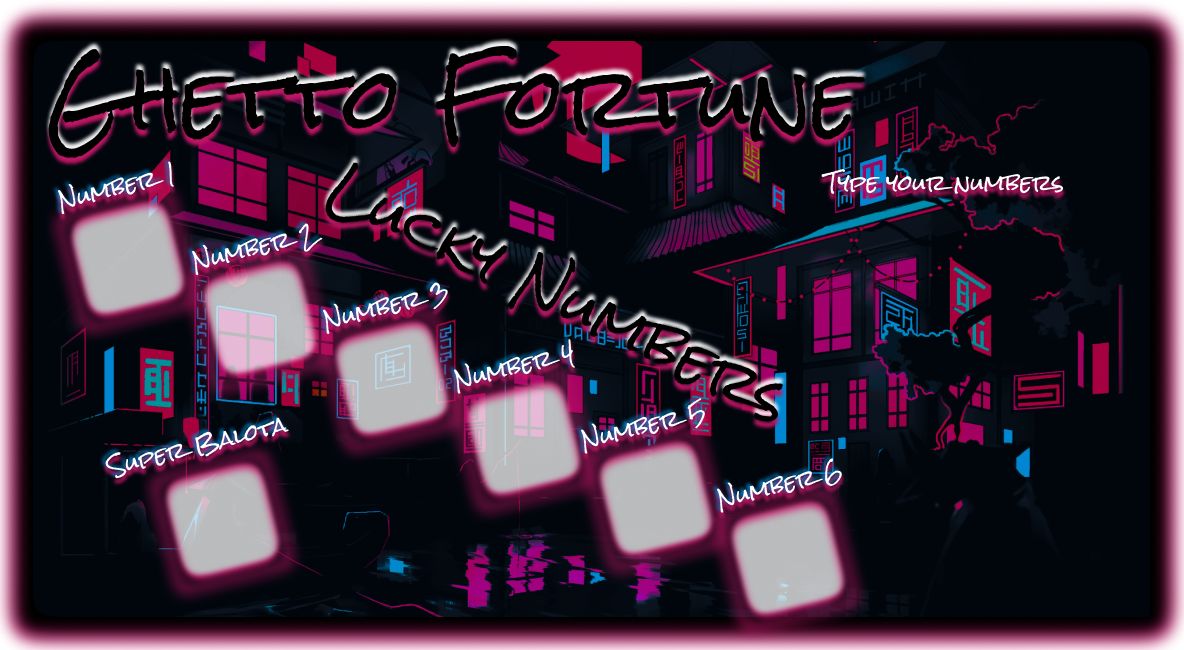
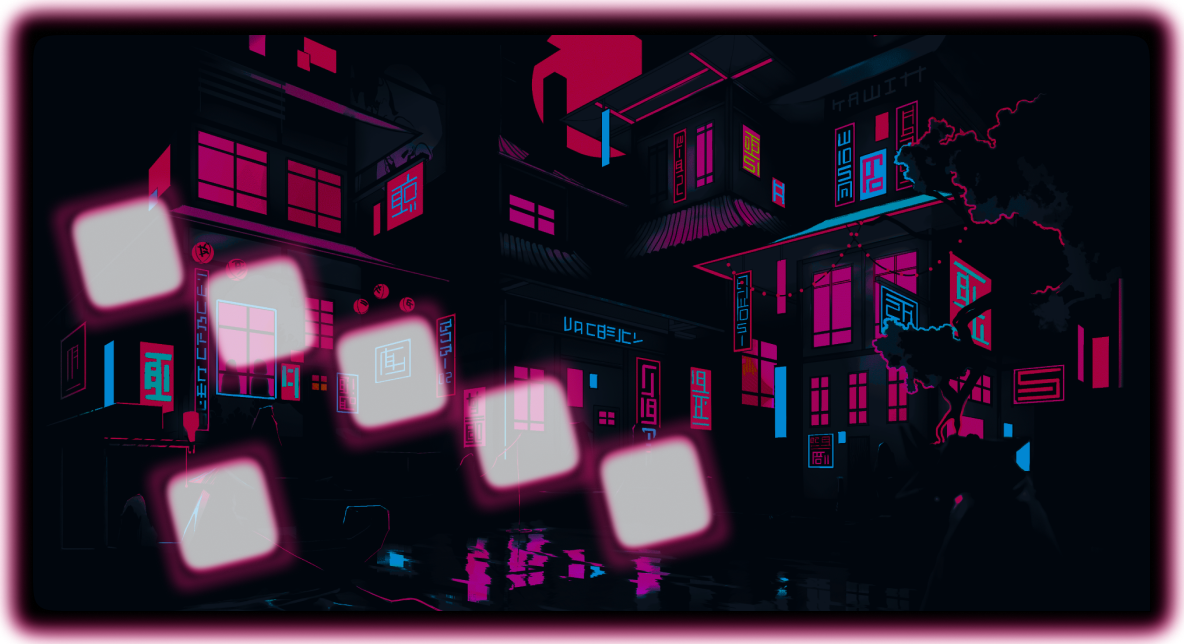
Challenge Baloto

diff --git a/08-javascript/22-challenge-baloto.html b/08-javascript/22-challenge-baloto.html
@@ -1,0 +1,360 @@
+<!DOCTYPE html>
+<html lang="en">
+<head>
+    <meta charset="UTF-8">
+    <meta http-equiv="X-UA-Compatible" content="IE=edge">
+    <meta name="viewport" content="width=device-width, initial-scale=1.0">
+    <title>Challenge Baloto</title>
+    <link rel="stylesheet" href="css/styles.css">
+    <link rel="preconnect" href="https://fonts.googleapis.com">
+    <link rel="preconnect" href="https://fonts.gstatic.com" crossorigin>
+    <link href="https://fonts.googleapis.com/css2?family=Rock+Salt&display=swap" rel="stylesheet">
+    <link rel="stylesheet" href="https://cdnjs.cloudflare.com/ajax/libs/animate.css/4.1.1/animate.min.css"
+  />
+    <style>
+        /* Modificaciones generales */        
+        input[type=number]::-webkit-inner-spin-button,
+        input[type=number]::-webkit-outer-spin-button {
+            -webkit-appearance: none;
+            margin: 0;
+        }
+        input[type=number]:focus{
+            outline:none;
+        }
+        input[type=number] { -moz-appearance:textfield; font-family: 'Rock Salt', cursive;  }
+        
+        .animate__zoomInDown{
+            animation: zoomInDown;
+            animation-duration: 0.8s;
+        }
+
+        .display {
+            display: none;
+        }
+
+        /* Base */
+        section.base {
+            *background: url(/08-javascript/imgs/Baloto/base-try.png) no-repeat center;
+            background: url(/08-javascript/imgs/Baloto/base.png) no-repeat center;
+            height: 650px;
+            font-family: 'Rock Salt', cursive;
+            margin: 0px auto;
+            padding: 0;
+            position: relative;
+            width: 1184px;
+        }
+        /* Textos */
+        section.base p.ghetto {
+            color: #000000;
+            cursor: context-menu;
+            font-style: normal;
+            font-weight: normal;
+            font-size: 82px;
+            height: 171px;
+            left: 46px;
+            line-height: 196px;
+            position: absolute;
+            top: -80px;
+            text-shadow: 0px -5px 4px rgba(255, 255, 255, 0.95), 0px 6px 4px #BD1564;
+            width: 813px;
+        }
+        section.base p.lucky {
+            color: #000000;
+            cursor: context-menu;
+            font-style: normal;
+            font-weight: normal;
+            font-size: 55px;
+            height: 131px;
+            left: 306px;
+            line-height: 131px;
+            position: absolute;
+            top: 175px;
+            text-shadow: 0px -5px 4px rgba(255, 255, 255, 0.95), 0px 6px 4px #BD1564;
+            transform: rotate(26deg);
+            width: 505px;
+        }
+        section.base p.type {
+            color: #FFFFFF;
+            cursor: context-menu;
+            font-family: Rock Salt;
+            font-style: normal;
+            font-weight: normal;
+            font-size: 21px;
+            height: 50px;
+            left: 845px;
+            line-height: 50px;
+            position: absolute;
+            top: 137px;
+            text-shadow: 0px 5px 4px #BD1564, 0px 4px 4px #BF1363;
+            width: 248px;
+        }
+        section.base p.luckyNumber1,
+        section.base p.luckyNumber2,
+        section.base p.luckyNumber3,
+        section.base p.luckyNumber4,
+        section.base p.luckyNumber5,
+        section.base p.luckyBalota {
+            color: #FFFFFF;
+            cursor: context-menu;
+            font-style: normal;
+            font-weight: normal;
+            font-size: 21px;
+            height: 50px;
+            line-height: 50px;
+            position: absolute;
+            text-shadow: -3px -2px 4px #0187D2, 0px 5px 4px #BD1564, 0px 4px 4px #BF1363;
+            transform: rotate(-14deg);
+            width: 126px;
+        }
+        section.base p.luckyNumber1 {
+            top: 140px;
+            left: 56px;
+        }
+        section.base p.luckyNumber2 {
+            top: 201px;
+            left: 191px;
+        }
+        section.base p.luckyNumber3 {
+            top: 260px;
+            left: 321px;
+            width: 130px;
+        }
+        section.base p.luckyNumber4 {
+            top: 320px;
+            left: 453px;
+        }
+        section.base p.luckyNumber5 {
+            top: 380px;
+            left: 579px;
+            width: 129px;
+        }
+        section.base p.luckyBalota {
+            top: 399px;
+            left: 106px;
+            width: 184px;
+        }
+
+        /* Inputs de los números a digitar */
+        section.base input.typingNumber1,
+        section.base input.typingNumber2,
+        section.base input.typingNumber3,
+        section.base input.typingNumber4,
+        section.base input.typingNumber5,
+        section.base input.typingBalota {
+            background: url(/08-javascript/imgs/Baloto/typingSquare.png) no-repeat;
+            border: none;
+            cursor: pointer;
+            height: 54px;
+            text-align: center;
+            position: absolute;
+            width: 54px;
+        }
+        section.base input.typingNumber1 {
+            top: 214px;
+            left: 774px;
+        }
+        section.base input.typingNumber2 {
+            top: 214px;
+            left: 832px;
+        }
+        section.base input.typingNumber3 {
+            top: 214px;
+            left: 890px;
+        }
+        section.base input.typingNumber4 {
+            top: 214px;
+            left: 948px;
+        }
+        section.base input.typingNumber5 {
+            top: 214px;
+            left: 1006px;
+        }
+        section.base input.typingBalota {
+            top: 214px;
+            left: 1100px;
+        }
+
+        /* Botones */
+        section.base button.btn-start,
+        section.base button.btn-reset {
+            border: none;
+            cursor: pointer;
+            height: 71px;
+            position: absolute;
+            transition: all 0.1s ease-out;
+            width: 202px;
+        }
+        section.base button.btn-start {
+            background: url(/08-javascript/imgs/Baloto/btn-start.png) no-repeat;
+            left: 897px;
+            top: 333px;
+        }
+        section.base button.btn-reset {
+            background: url(/08-javascript/imgs/Baloto/btn-reset.png) no-repeat;
+            left: 897px;
+            top: 431px;
+        }
+        section.base button.btn-start:hover,
+        section.base button.btn-reset:hover{
+            transform: scale(1.04);
+        }
+
+        /* Números Generados */
+        section.base p#number1,
+        section.base p#number2,
+        section.base p#number3,
+        section.base p#number4,
+        section.base p#number5,
+        section.base p#numberBalota {
+            background: url(/08-javascript/imgs/Baloto/bg-spanNumbers.png) no-repeat;
+            background-size: cover;
+            height: 150px;
+            position: absolute;
+            text-align: center;
+            line-height: 150px;
+            width: 150px;
+        }
+        section.base p#number1 {
+            top: 157px;
+            left: 50px;            
+        }
+        section.base p#number2 {
+            top: 218px;
+            left: 182px;
+        }
+        section.base p#number3 {
+            top: 278px;
+            left: 314px;
+        }
+        section.base p#number4 {
+            top: 338px;
+            left: 446px;
+        }
+        section.base p#number5 {
+            top: 398px;
+            left: 579px;
+        }
+        section.base p#numberBalota {
+            top: 420px;
+            left: 144px;
+        }
+        
+    </style>
+</head>
+<body>
+    <main>
+        <header>
+            <h1><span><a href="index.html">&larr;</a>Challenge Baloto</span></h1>
+        </header>
+        <section class="base">
+            <p class="ghetto">Ghetto Fortune</p>
+            <p class="lucky">Lucky Numbers</p>
+            <p class="type">Type your numbers</p>
+            <p class="luckyNumber1">Number 1</p>
+            <p class="luckyNumber2">Number 2</p>
+            <p class="luckyNumber3">Number 3</p>
+            <p class="luckyNumber4">Number 4</p>
+            <p class="luckyNumber5">Number 5</p>
+            <p class="luckyBalota">Super Balota</p>
+            <input type="number" class="typingNumber1" id="typingNumber1">
+            <input type="number" class="typingNumber2" id="typingNumber2">
+            <input type="number" class="typingNumber3" id="typingNumber3">
+            <input type="number" class="typingNumber4" id="typingNumber4">
+            <input type="number" class="typingNumber5" id="typingNumber5">
+            <input type="number" class="typingBalota"  id="typingBalota">
+            <p id="number1" class="number display"></p>
+            <p id="number2" class="number display"></p>
+            <p id="number3" class="number display"></p>
+            <p id="number4" class="number display"></p>
+            <p id="number5" class="number display"></p>
+            <p id="numberBalota" class="display"></p>
+            <button class="btn-start" id="btn-start"></button>
+            <button class="btn-reset" id="btn-reset"></button>
+        </section>
+    </main>
+
+    <script>
+
+        // Variables
+        const btnStart    = document.getElementById('btn-start');
+        const btnReset    = document.getElementById('btn-reset');
+        var number1       = document.getElementById('number1');
+        var number2       = document.getElementById('number2');
+        var number3       = document.getElementById('number3');
+        var number4       = document.getElementById('number4');
+        var number5       = document.getElementById('number5');
+        var numberBalota  = document.getElementById('numberBalota');          
+
+        btnStart.onclick = function(){
+
+            const arrayAux      = []; 
+            const arrayBalota     = []; 
+
+            let typingNumber1 = document.getElementById('typingNumber1').value;
+            let typingNumber2 = document.getElementById('typingNumber2').value;
+            let typingNumber3 = document.getElementById('typingNumber3').value;
+            let typingNumber4 = document.getElementById('typingNumber4').value;
+            let typingNumber5 = document.getElementById('typingNumber5').value;
+            let typingBalota  = document.getElementById('typingBalota').value;
+                   
+
+            if (!typingNumber1.length > 0 && !typingNumber2.length > 0 && !typingNumber3.length > 0 && !typingNumber4.length > 0 && !typingNumber5.length > 0 && !typingBalota.length > 0)
+            {
+                alert("¡Hay uno o más números de su boleta que están vacíos!\nDiligencie los datos correctamente.");
+            }else{
+
+                number1.classList.add('animate__zoomInDown');
+                number2.classList.add('animate__zoomInDown');
+                number3.classList.add('animate__zoomInDown');
+                number4.classList.add('animate__zoomInDown');
+                number5.classList.add('animate__zoomInDown');
+                numberBalota.classList.add('animate__zoomInDown');
+                number1.classList.remove('display');
+                number2.classList.remove('display');
+                number3.classList.remove('display');
+                number4.classList.remove('display');
+                number5.classList.remove('display');
+                numberBalota.classList.remove('display');
+                
+                for (let i = 0; i < 5; i++) 
+                {
+                    // var rand = Math.ceil(Math.random()*(-2-arrayAux.length+1))+arrayAux.length; 
+
+                    var rand = Math.ceil(Math.random()*43);
+                    
+                    if(arrayAux.indexOf(rand) == -1){
+                        arrayAux[i] = rand;
+                    }else{
+                        i--;
+                    }                    
+                }
+
+                number1.innerText = arrayAux[0];
+                number2.innerText = arrayAux[1];
+                number3.innerText = arrayAux[2];
+                number4.innerText = arrayAux[3];
+                number5.innerText = arrayAux[4];
+
+                arrayBalota[0] = Math.ceil(Math.random()*16);
+                numberBalota.innerText = arrayBalota[0];
+                
+                if (typingNumber1 == arrayAux[0] && typingNumber2 == arrayAux[1] && typingNumber3 == arrayAux[2] && typingNumber4 == arrayAux[3] && typingNumber5 == arrayAux[4] && typingBalota == arrayBalota[0]){
+                    // alert("¡Ganaste el Baloto!");
+                    alert("¡Ganaste!")
+                }else{
+                    console.log("¡Mala Suerte!\nSigue intentando...");
+                }
+                
+            } 
+        }
+        
+        btnReset.onclick = function(){
+            window.location.replace('22-challenge-baloto.html');            
+        }
+        
+        
+        
+    </script>
+    
+</body>
+</html>

diff --git a/08-javascript/index.html b/08-javascript/index.html
@@ -35,6 +35,7 @@
                 <li><a href="19-methods-strings.html">19. Methods String</a></li>
                 <li><a href="20-methods-numbers.html">20. Methods Numbers</a></li>
                 <li><a href="21-methods-mathematics.html">21. Methods Mathematics</a></li>
+                <li><a href="22-challenge-baloto.html">22. Challenge Baloto</a></li>
                 
             </nav>
         </section>

diff --git a/08-javascript/00-blank.html b/08-javascript/00-blank.html
@@ -6,6 +6,9 @@
     <meta name="viewport" content="width=device-width, initial-scale=1.0">
     <title></title>
     <link rel="stylesheet" href="css/styles.css">
+    <style>
+        
+    </style>
 </head>
 <body>
     <main>
